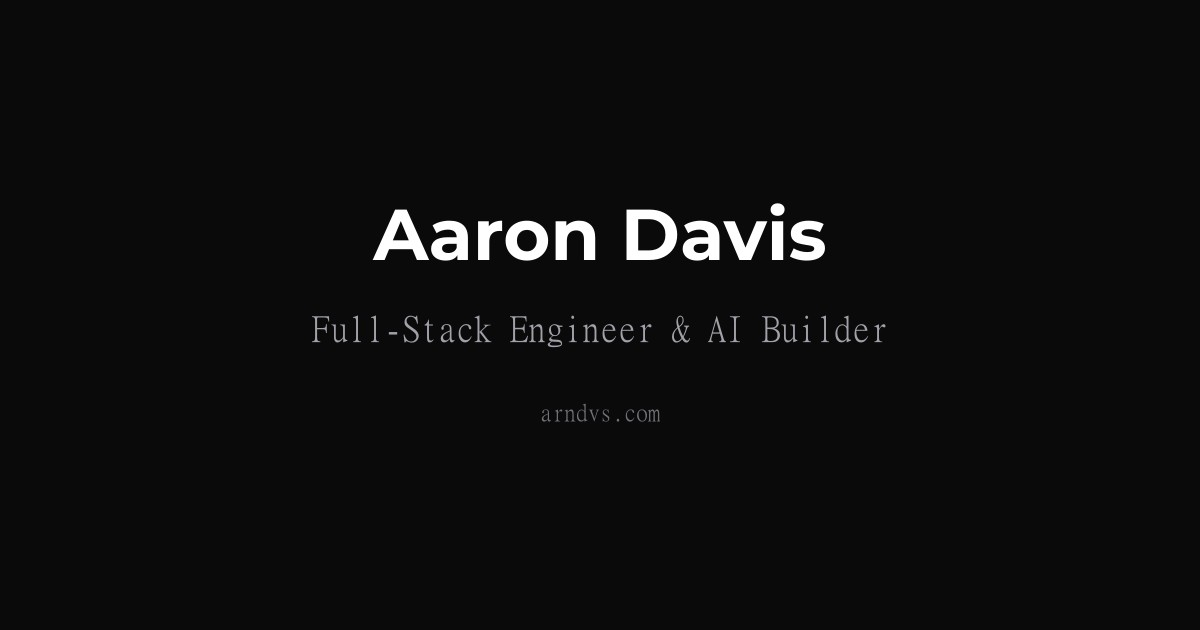
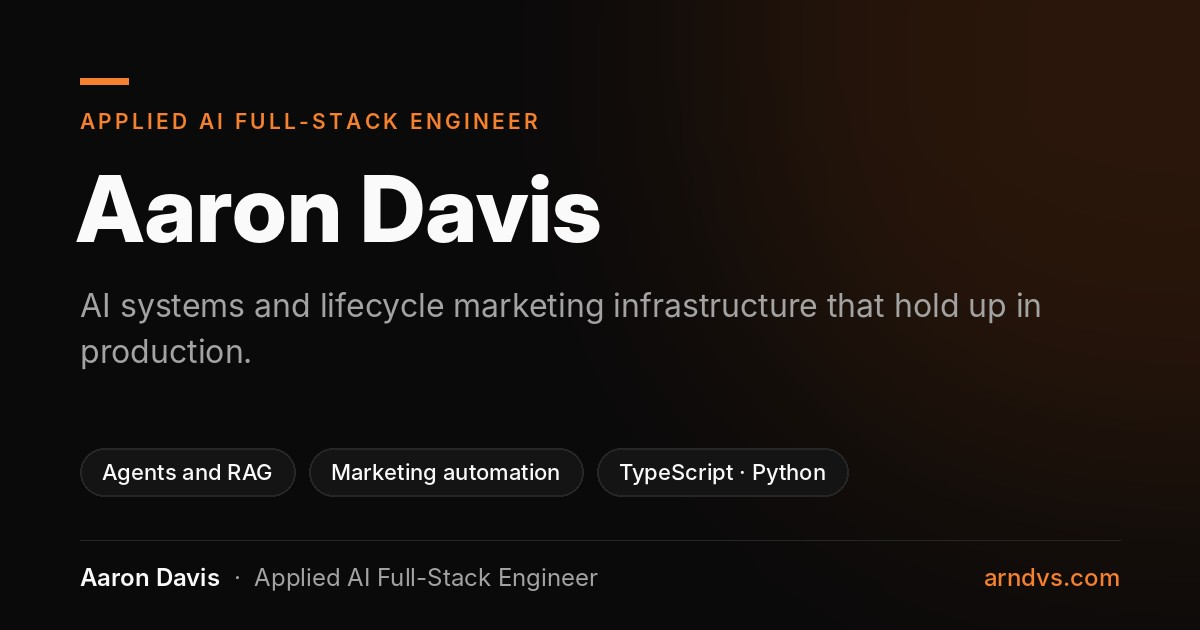
feat(images): share cards, RipeMetrics gallery, RISE and ctrl+shft screenshots, blog heroes
- Share card carries the new title; each project page gets its own card
  in public/og. The web manifest name matches.
- RipeMetrics gets a hero image, an eight-image gallery and a Projects
  thumbnail from screenshots that were already in the repo but unused.
- ctrl+shft: the gallery pointed at a landing-page.png that did not
  exist. It now has a real capture plus the HUD panel from ctrlshft.dev.
- RISE Awake gets a hero, a three-image gallery and a Projects thumbnail
  captured from riseawake.com.
- Hero images for the four blog posts that have none, in the style of
  the first-reward journey hero, with scripts/upload-post-heroes.ts
  (pnpm seed:post-heroes) to upload them to Sanity.

Claude-Session: https://claude.ai/code/session_01GEcFuacA1KDBMhAXTmWhNq

diff --git a/scripts/upload-post-heroes.ts b/scripts/upload-post-heroes.ts
@@ -1,0 +1,79 @@
+/**
+ * Uploads a hero image for each blog post that has none and sets it as the post's mainImage.
+ * Run: pnpm exec tsx scripts/upload-post-heroes.ts
+ *
+ * Posts are matched by slug. Both the published document and its draft, if one exists, are patched.
+ * A post that already has a mainImage is left alone unless you pass --force.
+ */
+import { createReadStream } from "node:fs";
+import { join } from "node:path";
+
+import { createSanityClient } from "./lib/sanity";
+
+const client = createSanityClient();
+const ASSET_DIR = join(__dirname, "assets", "blog-heroes");
+const force = process.argv.includes("--force");
+
+const HEROES: { slug: string; file: string; alt: string }[] = [
+    {
+        slug: "readable-vs-explainable",
+        file: "readable-vs-explainable.jpg",
+        alt: "Title card reading We stop reading every line, beside a panel where the letters of banana are sorted into aaabnn with a check mark.",
+    },
+    {
+        slug: "programming-as-theory-building",
+        file: "programming-as-theory-building.jpg",
+        alt: "Title card reading The real product isn't the code, beside a small block labelled code inside a larger dashed outline labelled theory.",
+    },
+    {
+        slug: "tailwind-indicator",
+        file: "tailwind-indicator.jpg",
+        alt: "Title card reading Know your breakpoint, beside a page layout with a badge showing lg, 1280 by 720.",
+    },
+    {
+        slug: "building-production-sanity-cms-ai-content-ops",
+        file: "building-production-sanity-cms-ai-content-ops.jpg",
+        alt: "Title card reading Production Sanity, AI content ops, beside a document with an Enhance button and four checked fields.",
+    },
+];
+
+async function main() {
+    for (const hero of HEROES) {
+        const docs = await client.fetch<{ _id: string; hasImage: boolean }[]>(
+            `*[_type == "post" && slug.current == $slug]{ _id, "hasImage": defined(mainImage.asset) }`,
+            { slug: hero.slug },
+        );
+        if (docs.length === 0) {
+            console.log(`skip ${hero.slug}: no post with this slug`);
+            continue;
+        }
+        const targets = force ? docs : docs.filter((doc) => !doc.hasImage);
+        if (targets.length === 0) {
+            console.log(`skip ${hero.slug}: already has a mainImage (use --force to replace)`);
+            continue;
+        }
+        const asset = await client.assets.upload(
+            "image",
+            createReadStream(join(ASSET_DIR, hero.file)),
+            { filename: `blog-hero-${hero.file}` },
+        );
+        for (const doc of targets) {
+            await client
+                .patch(doc._id)
+                .set({
+                    mainImage: {
+                        _type: "image",
+                        asset: { _type: "reference", _ref: asset._id },
+                        alt: hero.alt,
+                    },
+                })
+                .commit();
+            console.log(`set mainImage on ${doc._id}`);
+        }
+    }
+}
+
+main().catch((error) => {
+    console.error(error);
+    process.exit(1);
+});

diff --git a/src/app/projects/ripemetrics/data.ts b/src/app/projects/ripemetrics/data.ts
@@ -1,3 +1,5 @@
+import type { GalleryImage } from "@/lib/types/case-study";
+
 import type { DiagramKey } from "./diagrams";
 
 export interface HeaderData {
@@ -75,6 +77,8 @@ export interface PageData {
     technicalImplementation: { title: string; sections: TechSection[] };
     achievements: { title: string; items: Achievement[] };
     conclusion: ConclusionData;
+    heroImage: { src: string; alt: string };
+    gallery: GalleryImage[];
 }
 
 export const pageData: PageData = {
@@ -349,4 +353,50 @@ export const pageData: PageData = {
             secondary: { text: "View More Projects", href: "/projects" },
         },
     },
+    heroImage: {
+        src: "/projects/ripemetrics/marketing-campaigns-screenshot.jpg",
+        alt: "RipeMetrics Marketing Campaigns screen with the drag-and-drop email template editor",
+    },
+    gallery: [
+        {
+            src: "/projects/ripemetrics/ripe-engage.png",
+            alt: "RipeMetrics email editor with content blocks and text styling controls",
+            caption: "Engage — email editor with content blocks and per-block styling",
+        },
+        {
+            src: "/projects/ripemetrics/communication-theater-screenshot.jpg",
+            alt: "RipeMetrics Communication Theater inbox with a customer conversation",
+            caption: "Communication Theater — one inbox for direct message, email, and call",
+        },
+        {
+            src: "/projects/ripemetrics/communication-crm-ai-chatbot.png",
+            alt: "RipeMetrics Communication CRM showing a customer conversation with AI-written notes",
+            caption: "Communication CRM — customer conversations with AI-written notes",
+        },
+        {
+            src: "/projects/ripemetrics/ripe-crm.png",
+            alt: "RipeMetrics sales workflow board with leads grouped by stage",
+            caption: "CRM — sales workflow board by lead stage",
+        },
+        {
+            src: "/projects/ripemetrics/ripe-intel.png",
+            alt: "RipeMetrics customer retention cohort chart",
+            caption: "Intel — customer retention by cohort",
+        },
+        {
+            src: "/projects/ripemetrics/shopping-trends-screenshot.jpg",
+            alt: "RipeMetrics shopping trends dashboard with sales by channel",
+            caption: "Business Intelligence — shopping trends by sales channel",
+        },
+        {
+            src: "/projects/ripemetrics/summary-feedback-screenshot.jpg",
+            alt: "RipeMetrics customer feedback dashboard with NPS, product, and experience scores",
+            caption: "Customer Feedback — NPS, product, and experience scores",
+        },
+        {
+            src: "/projects/ripemetrics/product-performance.jpg",
+            alt: "RipeMetrics product performance dashboard",
+            caption: "Business Intelligence — product performance",
+        },
+    ],
 };

diff --git a/src/app/projects/rise-awake/data.ts b/src/app/projects/rise-awake/data.ts
@@ -19,6 +19,8 @@ export const pageData: PageData<DiagramKey> = {
             text: "Visit riseawake.com",
             href: "https://riseawake.com",
         },
+        screenshotSrc: "/projects/rise-awake/rise-home.jpg",
+        screenshotAlt: "riseawake.com homepage with the headline Rise. Awake.",
     },
 
     situation: {
@@ -280,7 +282,23 @@ export const pageData: PageData<DiagramKey> = {
         ],
     },
 
-    gallery: [],
+    gallery: [
+        {
+            src: "/projects/rise-awake/rise-home.jpg",
+            alt: "riseawake.com homepage with the headline Rise. Awake.",
+            caption: "Homepage — the bed that gets you up, whether you're ready or not",
+        },
+        {
+            src: "/projects/rise-awake/rise-push.jpg",
+            alt: "The Push product page on riseawake.com, marked out of stock",
+            caption: "The Push — product page, currently out of stock",
+        },
+        {
+            src: "/projects/rise-awake/rise-activate.jpg",
+            alt: "The device activation page on riseawake.com",
+            caption: "Activate — the start of the device activation configurator",
+        },
+    ],
 
     cta: {
         text: "riseawake.com is the companion piece to PUSH — the short film. The website is the company. The film is the marketing video. Together, they demonstrate full-stack engineering, creative technology, and transmedia storytelling as a single integrated portfolio piece.",

diff --git a/src/app/projects/ripemetrics/ripemetrics-content.tsx b/src/app/projects/ripemetrics/ripemetrics-content.tsx
@@ -2,6 +2,7 @@
 
 import { ArrowRight, Palette } from "lucide-react";
 
+import Image from "next/image";
 import Link from "next/link";
 
 import {
@@ -11,6 +12,7 @@ import {
     ConclusionSection,
     DecisionLog,
     DeepDiveSection,
+    GallerySection,
     HeaderSection,
     ImpactSection,
     LearningsGrid,
@@ -44,6 +46,17 @@ export default function RipeMetricsContent() {
                 </Link>
             </div>
 
+            <div className="mx-auto max-w-7xl px-6 py-4 lg:px-8">
+                <Image
+                    src={pageData.heroImage.src}
+                    alt={pageData.heroImage.alt}
+                    width={2174}
+                    height={1464}
+                    priority
+                    className="border-border w-full rounded-lg border"
+                />
+            </div>
+
             <OverviewSection data={pageData.overview} />
             <ChallengeSection
                 title={pageData.challenge.title}
@@ -73,6 +86,9 @@ export default function RipeMetricsContent() {
                 title={pageData.achievements.title}
                 items={pageData.achievements.items}
             />
+            <div className="mx-auto max-w-7xl px-6 pt-16 lg:px-8">
+                <GallerySection gallery={pageData.gallery} />
+            </div>
             <ConclusionSection data={pageData.conclusion} />
         </main>
     );

diff --git a/src/app/projects/ctrlshft/data.ts b/src/app/projects/ctrlshft/data.ts
@@ -384,7 +384,13 @@ export const pageData: PageData<DiagramKey> = {
 
     gallery: [
         {
-            src: "/projects/ctrlshft/landing-page.png",
+            src: "/projects/ctrlshft/hud.jpg",
+            alt: "The ctrl+shft HUD showing compliance rate, loaded rules, active contexts, and a session log",
+            caption:
+                "HUD — compliance rate, loaded rules and skills, active contexts, and the session log, as shown on ctrlshft.dev",
+        },
+        {
+            src: "/projects/ctrlshft/landing-page.jpg",
             alt: "ctrlshft.dev — The landing page for ctrl+shft, a single-file HTML marketing site built with Tailwind CSS",
             caption:
                 "ctrlshft.dev — a ~1,500-line single-file marketing site covering system architecture, the autonomous pipeline, UX methodology, coding principles, security model, and the compliance HUD. Built as a portfolio-ready deliverable, not just documentation.",

diff --git a/src/app/projects/mcrdse-commerce/page.tsx b/src/app/projects/mcrdse-commerce/page.tsx
@@ -23,6 +23,14 @@ export const metadata: Metadata = generateSiteMetadata({
     description:
         "Case study: A 6-repo Cloudflare edge ecosystem for a functional-mushroom brand — two storefronts, a loyalty program built for correctness under concurrency, and order reconciliation across four external systems.",
     path: "/projects/mcrdse-commerce",
+    images: [
+        {
+            url: "/og/mcrdse-commerce.jpg",
+            width: 1200,
+            height: 630,
+            alt: "MCRDSE Commerce — e-commerce and loyalty platform",
+        },
+    ],
 });
 
 export default function MCRDSECommercePage() {

diff --git a/src/app/projects/ctrlshft/page.tsx b/src/app/projects/ctrlshft/page.tsx
@@ -23,6 +23,14 @@ export const metadata: Metadata = generateSiteMetadata({
     description:
         "Autonomous AI agent infrastructure — 50+ skills (including a 7-phase UX design process), 19 lifecycle hooks, compliance HUD, and secrets management from a single dotfiles repo. One git pull updates every machine.",
     path: "/projects/ctrlshft",
+    images: [
+        {
+            url: "/og/ctrlshft.jpg",
+            width: 1200,
+            height: 630,
+            alt: "ctrl+shft — AI agent infrastructure, open source",
+        },
+    ],
 });
 
 export default function CtrlShftPage() {

diff --git a/src/app/projects/mcrdse-content/page.tsx b/src/app/projects/mcrdse-content/page.tsx
@@ -23,6 +23,14 @@ export const metadata: Metadata = generateSiteMetadata({
     description:
         "Case study: A content approval-and-shipping worker with content-hash approval locking, an educational community site with a branching archetype quiz, and a forward-looking AI-search (GEO) strategy.",
     path: "/projects/mcrdse-content",
+    images: [
+        {
+            url: "/og/mcrdse-content.jpg",
+            width: 1200,
+            height: 630,
+            alt: "MCRDSE Content — content operations platform",
+        },
+    ],
 });
 
 export default function MCRDSEContentPage() {

diff --git a/src/app/projects/ripemetrics/page.tsx b/src/app/projects/ripemetrics/page.tsx
@@ -11,6 +11,14 @@ export const metadata: Metadata = generateSiteMetadata({
     description:
         "Case study: AI-native customer growth platform spanning 8 repositories — 880+ components, production RAG pipeline with dual-LLM failover across chat, SMS, email, and voice.",
     path: "/projects/ripemetrics",
+    images: [
+        {
+            url: "/og/ripemetrics.jpg",
+            width: 1200,
+            height: 630,
+            alt: "RipeMetrics — marketing automation and AI platform, 2017–2025",
+        },
+    ],
 });
 
 export default function RipeMetricsPage() {

diff --git a/src/app/projects/rise-awake/page.tsx b/src/app/projects/rise-awake/page.tsx
@@ -23,6 +23,14 @@ export const metadata: Metadata = generateSiteMetadata({
     description:
         "A 41-route Next.js 16 application operating as a fictional corporate website — Sanity v5, Convex, Clerk, 22 internal documents, and a transmedia universe connected to the PUSH short film.",
     path: "/projects/rise-awake",
+    images: [
+        {
+            url: "/og/rise-awake.jpg",
+            width: 1200,
+            height: 630,
+            alt: "RISE Awake — creative technology and full-stack web",
+        },
+    ],
 });
 
 export default function RiseAwakePage() {

diff --git a/src/app/projects/align-san-diego-family-chiropractic/page.tsx b/src/app/projects/align-san-diego-family-chiropractic/page.tsx
@@ -23,6 +23,14 @@ export const metadata: Metadata = generateSiteMetadata({
     description:
         "Case study: A 277K-line healthcare platform with AI content ops, 76 JSON-LD schemas, programmatic SEO across 203 pages, built on Next.js 16 and Sanity v5.",
     path: "/projects/align-san-diego-family-chiropractic",
+    images: [
+        {
+            url: "/og/align-san-diego-family-chiropractic.jpg",
+            width: 1200,
+            height: 630,
+            alt: "Align San Diego — healthcare platform",
+        },
+    ],
 });
 
 export default function AlignSDPage() {

diff --git a/src/app/projects/push/page.tsx b/src/app/projects/push/page.tsx
@@ -24,6 +24,14 @@ export const metadata: Metadata = generateSiteMetadata({
     description:
         "A comedy short being produced with AI generative video — currently in pre-production with a 55-shot prompt library, character consistency pipeline, and companion transmedia universe.",
     path: "/projects/push",
+    images: [
+        {
+            url: "/og/push.jpg",
+            width: 1200,
+            height: 630,
+            alt: "PUSH — AI video short film, in progress",
+        },
+    ],
 });
 
 export default function PushPage() {
